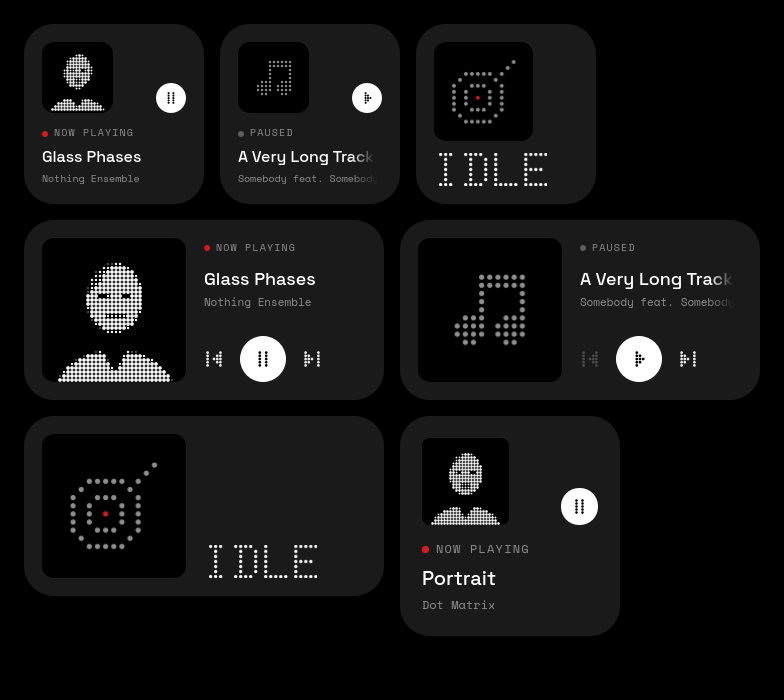
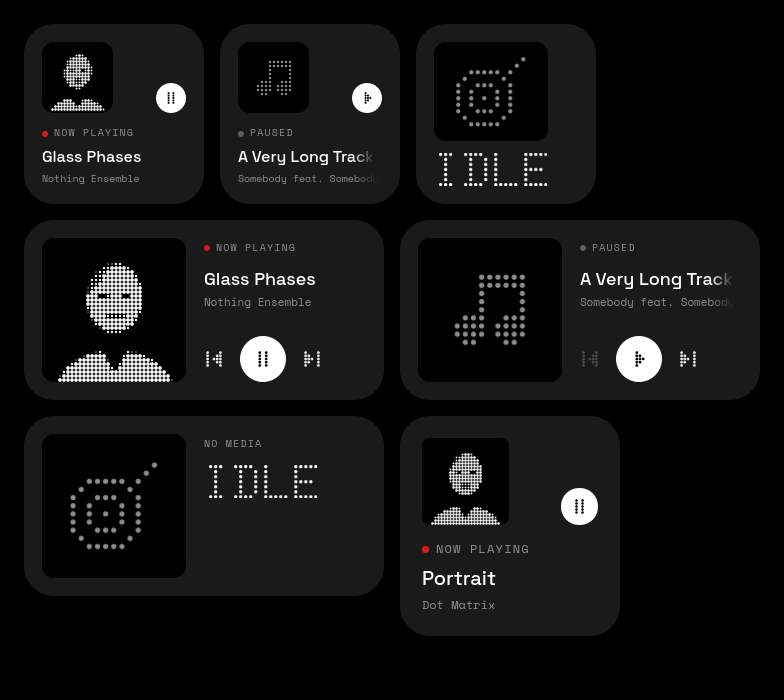
widgets: round 6

Changed region(s): [[0.551, 0.06, 0.7041, 0.21], [0.3061, 0.78, 0.398, 0.84], [0.2755, 0.66, 0.398, 0.72]]

diff --git a/plasma/plasmoids/org.nothing.system/contents/ui/SystemFace.qml b/plasma/plasmoids/org.nothing.system/contents/ui/SystemFace.qml
@@ -37,10 +37,28 @@ Card {
         id: g
         property var value: null
         property real maxPitch: 8          // largest house pitch to try
-        property real fixedPitch: 0        // > 0: always this pitch (shared by neighbours)
+        property real fixedPitch: 0        // > 0: always this pitch
         property real numberOffset: 0
         property bool mayWarn: true        // one red per widget: only the worst metric
+        // Largest house pitch whose digit+% group keeps ≥ 1 pitch clear of the
+        // ring's inner edge. Size changes go through pitch only (dot ratio fixed).
+        function fits(p) {
+            const w = num.widthAtPitch(p) + (pctSign.visible ? 3 + pctSign.width : 0);
+            const h = num.heightAtPitch(p);
+            const rIn = g.width / 2 - ring.dotSize * 1.5;
+            const y = h / 2 + Math.abs(g.numberOffset);
+            if (y >= rIn) return false;
+            return w / 2 <= Math.sqrt(rIn * rIn - y * y) - p;
+        }
+        readonly property real groupPitch: {
+            if (fixedPitch > 0) return fixedPitch;
+            const steps = Theme.dotPitches;
+            for (let i = steps.length - 1; i >= 0; i--)
+                if (steps[i] <= maxPitch + 0.001 && fits(steps[i])) return steps[i];
+            return steps[0];
+        }
         DotRing {
+            id: ring
             anchors.fill: parent
             value: root.ok(g.value) ? g.value : 0
             warn: 0.8                      // only dots past 80 % …
@@ -52,10 +70,12 @@ Card {
         DotString {
             id: num
             anchors.centerIn: parent
+            // digit + "%" centred as one group
             anchors.horizontalCenterOffset: pctSign.visible ? -(pctSign.width + 3) / 2 : 0
             anchors.verticalCenterOffset: g.numberOffset
             text: root.pct(g.value)
-            pitch: g.fixedPitch > 0 ? g.fixedPitch : fitPitch(g.width * 0.66, g.maxPitch)
+            pitch: g.groupPitch
+            dotRatio: Theme.dotRatio
             color: root.ok(g.value) ? Theme.fg : Theme.fg3
             width: implicitWidth; height: implicitHeight
         }
@@ -124,14 +144,14 @@ Card {
                 id: wg
                 width: wideRow.d; height: width
                 value: modelData.v
-                // shared pitch 8; both drop to 5 only while either reads "100"
-                fixedPitch: root.pct(root.cpu).length > 2 || root.pct(root.mem).length > 2 ? 5 : 8
+                // pitch 8; only a gauge that has to fit "100" steps down
+                maxPitch: 8
                 mayWarn: modelData.k === (root.ok(root.cpu) && root.ok(root.mem) && root.mem > root.cpu ? "RAM" : "CPU")
-                numberOffset: -Math.round(8 * root.u)
+                numberOffset: -Math.round(4 * root.u)
                 Row {
                     anchors.horizontalCenter: parent.horizontalCenter
                     anchors.verticalCenter: parent.verticalCenter
-                    anchors.verticalCenterOffset: Math.round(34 * root.u)
+                    anchors.verticalCenterOffset: Math.round(38 * root.u)
                     spacing: Math.round(6 * root.u)
                     Caption { text: modelData.k; color: Theme.fg }
                     Caption {

diff --git a/plasma/plasmoids/org.nothing.media/contents/ui/MediaFace.qml b/plasma/plasmoids/org.nothing.media/contents/ui/MediaFace.qml
@@ -152,16 +152,19 @@ Card {
         // idle: the black art tile with the vinyl inside, and IDLE in dots
         Rectangle {
             visible: !root.hasMedia
-            width: Math.round(sq.height - idleText.height - 12 * root.u); height: width
+            // tile as wide as the IDLE word (pitch 5 is the smallest house step)
+            width: idleText.width
+            height: Math.round(sq.height - idleText.height - 12 * root.u)
             radius: root.innerRadius
             color: Theme.bg
             DotGlyph {
                 anchors.centerIn: parent
-                width: parent.width * 0.66; height: width
+                width: Math.min(parent.width, parent.height) * 0.72; height: width
                 icon: "vinyl"
                 dimColor: "transparent"
                 litColor: Theme.fg2
                 halfColor: Theme.fg2
+                redColor: Theme.fg2              // no red while idle
             }
         }
         DotString {
@@ -190,6 +193,7 @@ Card {
                 width: parent.width * 0.62; height: width
                 visible: !artWide.ready
                 icon: root.hasMedia ? "note" : "vinyl"
+                redColor: Theme.fg2
                 litColor: Theme.fg2
                 halfColor: Theme.fg2
                 dimColor: "transparent"
@@ -247,16 +251,21 @@ Card {
                 SkipButton { anchors.verticalCenter: parent.verticalCenter; glyph: "next"; can: root.canNext; onClicked: root.next() }
             }
 
-            // idle: IDLE only
-            Column {
+            // idle: grey "NO MEDIA" where the status sits, IDLE where the title sits
+            Label {
+                id: idleStatus
                 visible: !root.hasMedia
-                anchors.left: parent.left; anchors.bottom: parent.bottom
-                spacing: Math.round(12 * root.u)
-                DotString {
-                    text: "IDLE"
-                    pitch: 5
-                    width: implicitWidth; height: implicitHeight
-                }
+                y: Math.round(2 * root.u)
+                size: Math.max(10, Math.round(10 * root.u))
+                color: Theme.fg2
+                text: "No media"
+            }
+            DotString {
+                visible: !root.hasMedia
+                anchors.top: idleStatus.bottom; anchors.topMargin: Math.round(14 * root.u)
+                text: "IDLE"
+                pitch: 5
+                width: implicitWidth; height: implicitHeight
             }
         }
     }
